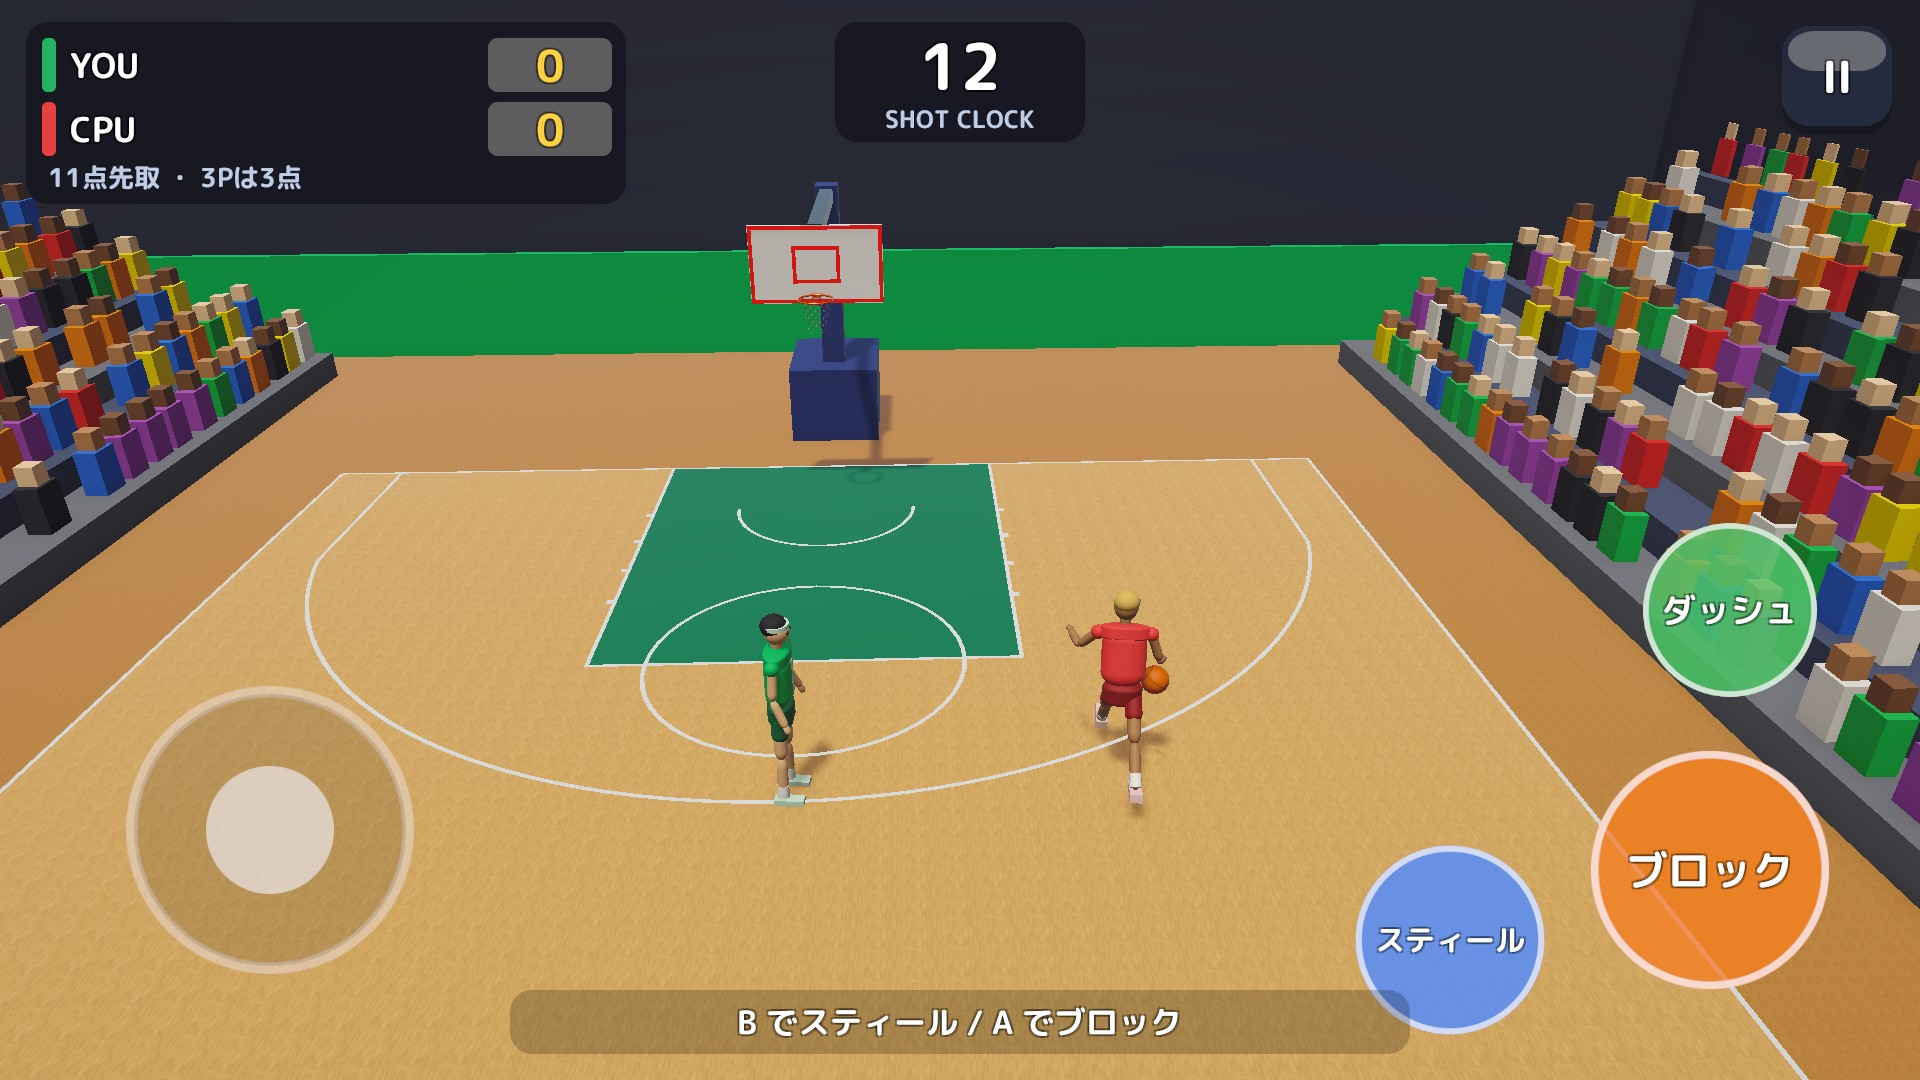
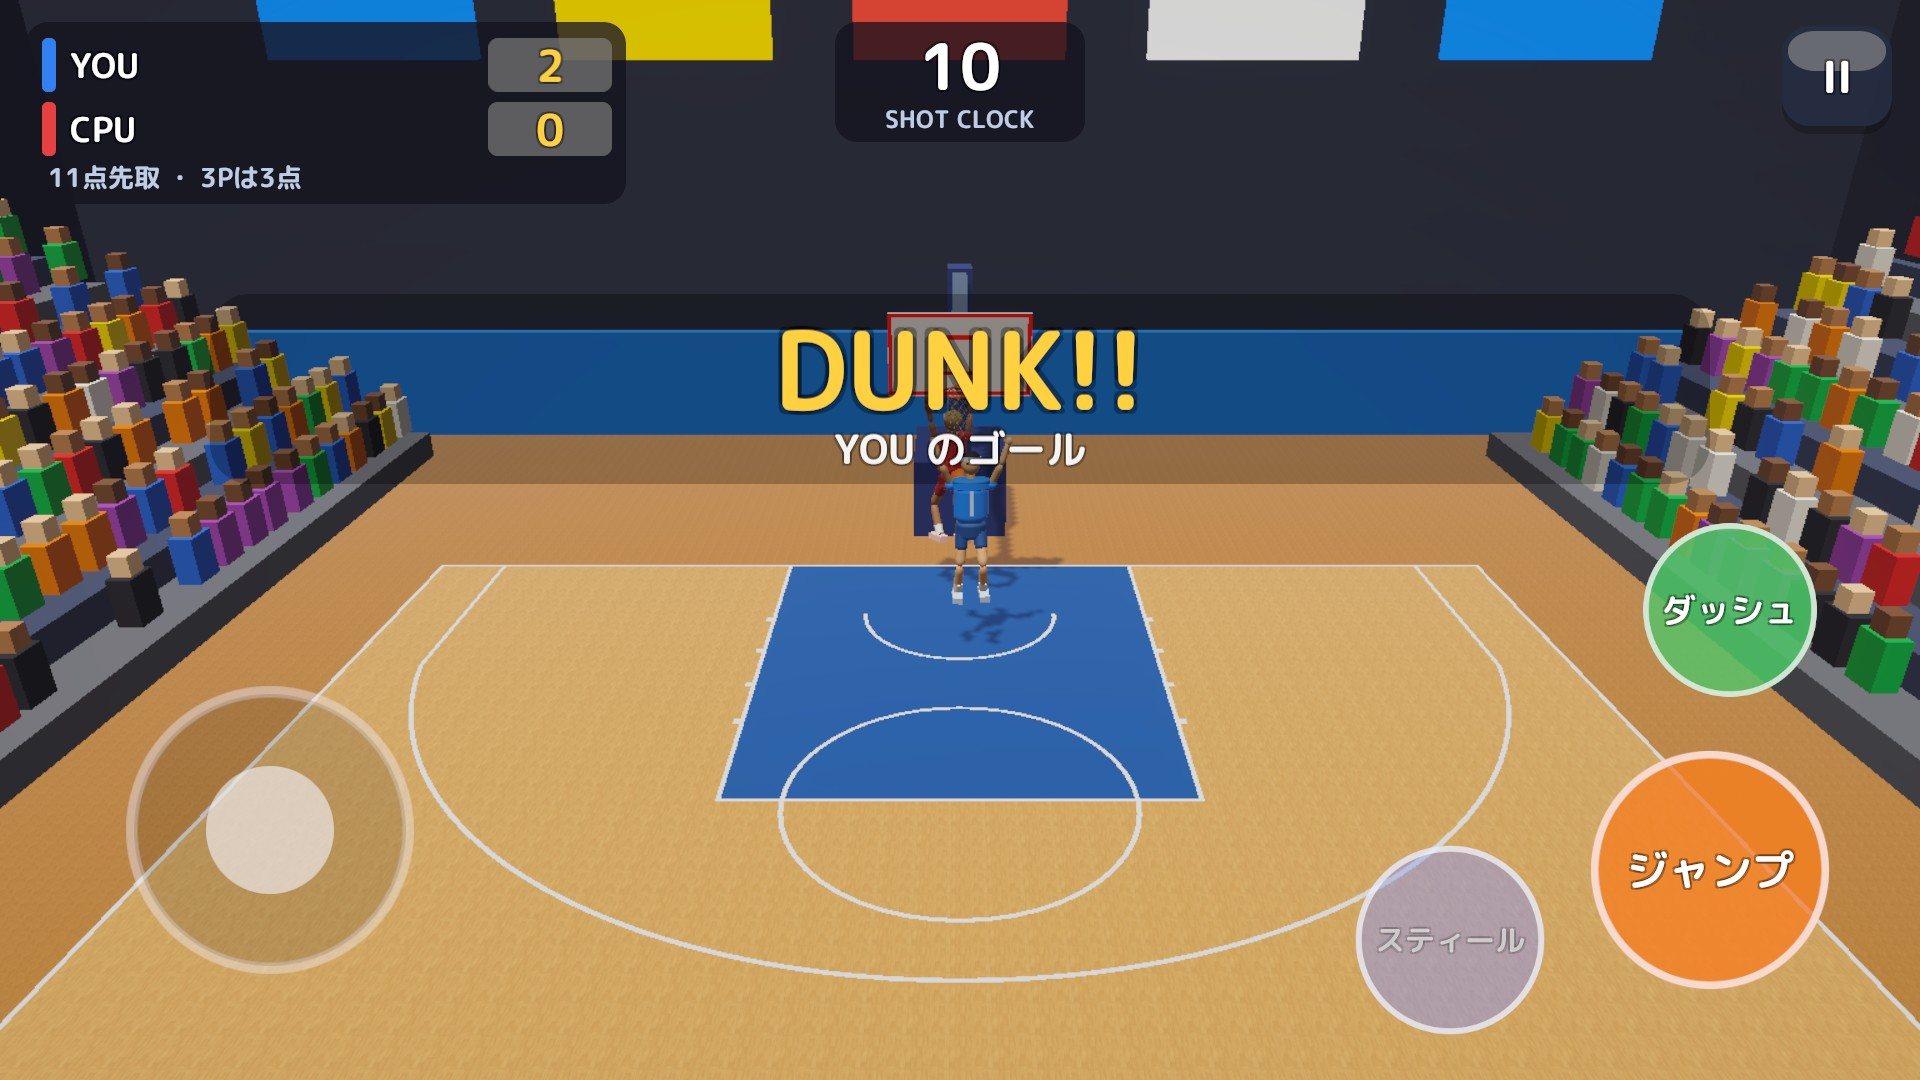
docs: 全画面のスクリーンショットをそろえる
全 10 画面を 1920×1080 で撮り直したものに差し替え、未撮影だった試合設定・設定・あそびかた・ポーズ・リザルトを追加する。
画面定義書・スクリーンショット一覧・設計ドキュメントの注記・テスト報告を合わせて書き換える。

Claude-Session: https://claude.ai/code/session_01E9BahXY9uex3bjNHQxiyGH

diff --git a/Doc/screenshots/README.md b/Doc/screenshots/README.md
@@ -1,15 +1,20 @@
 # スクリーンショット
 
-実機で撮影した主要画面です。画面ごとの表示項目・操作は[画面定義書](../screen-definitions.md)を参照してください。
+主要画面のスクリーンショットです（1920×1080）。画面ごとの表示項目・操作は[画面定義書](../screen-definitions.md)を参照してください。
 
 | ファイル | 画面 | 見どころ |
 |---|---|---|
 | [`01-start.jpg`](01-start.jpg) | S01 スタート | ロゴと「画面をタップしてスタート」。背景は 3D のタイトルステージ |
 | [`00-title-stage.jpg`](00-title-stage.jpg) | タイトルの 3D ステージ（UI なし） | 台座・床・リング、ボールの模様まで、すべて実行時にコードで生成（`TitleBackdrop`・`ProcTextures`） |
 | [`02-select.jpg`](02-select.jpg) | S02 種目選択 | 種目のテーマカラーのカードと通算戦績 |
-| [`10-basketball.jpg`](10-basketball.jpg) | S10 試合（バスケットボール） | 守備時の HUD。ショットクロック、状況で変わるボタン（ブロック／スティール／ダッシュ）とヒント。チームカラーはグリーン |
+| [`03-setup.jpg`](03-setup.jpg) | S03 試合設定 | 難易度・試合の長さ・チームカラーを選ぶ。背景は選んだ種目のボールにカメラが寄る |
+| [`04-options.jpg`](04-options.jpg) | S04 設定 | BGM・効果音の音量、振動、画質、移動アシスト、戦績のリセット |
+| [`05-howto.jpg`](05-howto.jpg) | S05 あそびかた | 種目ごとの操作とルールの説明（バスケットボールの例） |
+| [`10-basketball.jpg`](10-basketball.jpg) | S10 試合（バスケットボール） | ダンクを決めた直後（「DUNK!!」のバナー）。ショットクロックと、状況で変わるボタン（ジャンプ／ダッシュ。スティールはこの場面では押せない） |
 | [`11-tennis.jpg`](11-tennis.jpg) | S10 試合（テニス） | ゲーム数とポイントのスコアボード、サーブ権の点、トップスピン／スライス／ロブ |
-| [`12-volleyball.jpg`](12-volleyball.jpg) | S10 試合（ビーチバレー） | 2on2、レシーブ／ブロックのボタン |
+| [`12-volleyball.jpg`](12-volleyball.jpg) | S10 試合（ビーチバレー） | 2on2、サーブ権の点、レシーブ／ジャンプのボタン |
+| [`20-pause.jpg`](20-pause.jpg) | S11 ポーズ | 試合に戻る・最初からやり直す・種目選択へ戻る |
+| [`21-result.jpg`](21-result.jpg) | S12 リザルト | 勝敗・スコア・スタッツ（YOU LOSE... の例）。「種目選択へ」で種目選択に戻る |
 
 <table>
 <tr>
@@ -17,25 +22,22 @@
 <td width="50%"><img src="02-select.jpg" alt="種目選択"></td>
 </tr>
 <tr>
-<td width="50%"><img src="10-basketball.jpg" alt="バスケットボール"></td>
-<td width="50%"><img src="11-tennis.jpg" alt="テニス"></td>
+<td width="50%"><img src="03-setup.jpg" alt="試合設定"></td>
+<td width="50%"><img src="04-options.jpg" alt="設定"></td>
 </tr>
 <tr>
+<td width="50%"><img src="05-howto.jpg" alt="あそびかた"></td>
+<td width="50%"><img src="10-basketball.jpg" alt="バスケットボール"></td>
+</tr>
+<tr>
+<td width="50%"><img src="11-tennis.jpg" alt="テニス"></td>
 <td width="50%"><img src="12-volleyball.jpg" alt="ビーチバレー"></td>
+</tr>
+<tr>
+<td width="50%"><img src="20-pause.jpg" alt="ポーズ"></td>
+<td width="50%"><img src="21-result.jpg" alt="リザルト"></td>
+</tr>
+<tr>
 <td width="50%"><img src="00-title-stage.jpg" alt="タイトルの 3D ステージ"></td>
 </tr>
 </table>
-
-## まだ撮影していない画面
-
-S03 試合設定・S04 設定・S05 あそびかた・S11 ポーズ・S12 リザルトは、画面定義書ではコードのレイアウトと文言から起こした**ワイヤーフレーム**（[`../diagrams/svg/wf-*.svg`](../diagrams/svg/)）で示しています。
-
-| ファイル名 | 画面 | 撮り方 |
-|---|---|---|
-| `03-setup.jpg` | S03 試合設定 | 種目のカードを選ぶ |
-| `04-options.jpg` | S04 設定 | 種目選択の「設定」 |
-| `20-result.jpg` | S12 リザルト（YOU WIN!） | 試合を最後まで |
-
-- **Unity エディタ**：Game ビューの解像度を 1920×1080 にし、`DebugOptions.AutoPlay = true` で自動対戦させると決定的な場面を狙いやすい
-- **Windows ビルド**：メニュー **SportsGame > Build > Windows** で作った `SportsStadium.exe` を 1920×1080 で起動し、`Win + Shift + S`
-- **Android 実機**：電源 + 音量下

diff --git a/Doc/screen-definitions.md b/Doc/screen-definitions.md
@@ -8,7 +8,7 @@
 | 画面遷移図 | [diagrams/svg/screen-transition.svg](diagrams/svg/screen-transition.svg) |
 | 共通仕様 | UI はすべてコード（`UIKit`）で生成。ボタン押下時は拡大縮小のアニメーションと効果音。モーダルは `ModalPanel` |
 
-> **画面イメージについて**：S01 スタート・S02 種目選択・S10 試合（3 種目）は**実機のスクリーンショット**です。まだ撮影していない S03〜S05・S11・S12 は、**コードのレイアウトと文言から起こしたワイヤーフレーム**（PlantUML Salt。数値は例）で示しています。S01・S02・S10 のワイヤーフレームも、設計時の画面イメージとして [diagrams/svg/](diagrams/svg/) に残しています。
+> **画面イメージについて**：すべての画面を**実際のゲーム画面のスクリーンショット**で示しています。コードのレイアウトと文言から起こしたワイヤーフレーム（PlantUML Salt）も、設計時の画面イメージとして [diagrams/svg/](diagrams/svg/) に残しています。
 
 ![画面遷移図](diagrams/svg/screen-transition.svg)
 
@@ -64,7 +64,9 @@
 
 ### S03 試合設定
 
-![S03](diagrams/svg/wf-03-setup.svg)
+![S03](screenshots/03-setup.jpg)
+
+ワイヤーフレーム：[wf-03-setup.svg](diagrams/svg/wf-03-setup.svg)
 
 | No | 項目 | 種別 | 選択肢 | 内容 |
 |---|---|---|---|---|
@@ -85,7 +87,18 @@
 
 ### S04 設定 ／ S05 あそびかた
 
-![S04](diagrams/svg/wf-04-options.svg)
+<table>
+<tr>
+<td width="50%"><img src="screenshots/04-options.jpg" alt="設定"></td>
+<td width="50%"><img src="screenshots/05-howto.jpg" alt="あそびかた"></td>
+</tr>
+<tr>
+<td align="center">S04 設定</td>
+<td align="center">S05 あそびかた</td>
+</tr>
+</table>
+
+ワイヤーフレーム：[wf-04-options.svg](diagrams/svg/wf-04-options.svg)
 
 | No | 項目 | 種別 | 内容 |
 |---|---|---|---|
@@ -108,9 +121,9 @@
 <td width="33%"><img src="screenshots/12-volleyball.jpg" alt="ビーチバレー"></td>
 </tr>
 <tr>
-<td align="center">バスケットボール（守備時）</td>
+<td align="center">バスケットボール（ダンクを決めた直後）</td>
 <td align="center">テニス</td>
-<td align="center">ビーチバレー（相手の攻撃時）</td>
+<td align="center">ビーチバレー</td>
 </tr>
 </table>
 
@@ -145,7 +158,18 @@
 
 ### S11 ポーズ ／ S12 リザルト
 
-![S11](diagrams/svg/wf-11-pause.svg) ![S12](diagrams/svg/wf-12-result.svg)
+<table>
+<tr>
+<td width="50%"><img src="screenshots/20-pause.jpg" alt="ポーズ"></td>
+<td width="50%"><img src="screenshots/21-result.jpg" alt="リザルト"></td>
+</tr>
+<tr>
+<td align="center">S11 ポーズ</td>
+<td align="center">S12 リザルト</td>
+</tr>
+</table>
+
+ワイヤーフレーム：[wf-11-pause.svg](diagrams/svg/wf-11-pause.svg) ／ [wf-12-result.svg](diagrams/svg/wf-12-result.svg)
 
 | 画面 | No | 項目 | 内容 |
 |---|---|---|---|

diff --git a/Doc/README.md b/Doc/README.md
@@ -26,8 +26,6 @@
 </tr>
 </table>
 
-> 試合設定・設定・ポーズ・リザルトの画面は、画面定義書でワイヤーフレームとして示しています（→ [screenshots/README.md](screenshots/README.md)）。
-
 ## プロジェクト概要
 
 | 項目 | 内容 |
@@ -102,7 +100,7 @@ Unity の物理エンジンに頼らず、**重力を解析解で積分する決
 | [設計書](design.md) | 構成・役割分担・クラス図・シーケンス図・状態遷移図・ボール物理・手続き的生成・データ |
 | [テスト仕様・結果](test-report.md) | EditMode / PlayMode テスト 58 件の内訳と結果・今後の改善 |
 | [diagrams/](diagrams/) | PlantUML ソース（`src/`）と SVG（`svg/`） |
-| [screenshots/](screenshots/) | 主要画面のスクリーンショット（実機） |
+| [screenshots/](screenshots/) | 主要画面のスクリーンショット（1920×1080） |
 
 ### 図の一覧
 
